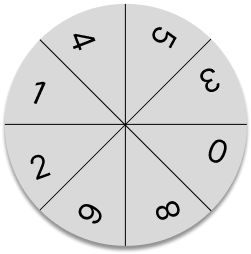
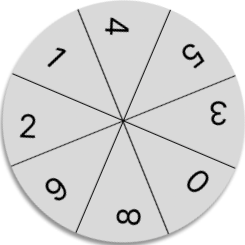
Fix L11 and Add divide in L16

diff --git a/src/components/levels/L16.jsx b/src/components/levels/L16.jsx
@@ -67,7 +67,7 @@ const Level16 = ({ onComplete }) => {
   const handleCommandSubmit = () => {
     const matchTheme = inputValue.match(/^\/theme (dark|light)$/);
 
-    const match = inputValue.match(/^\/(invert|help|multiply|add)\s*(.*)$/);
+    const match = inputValue.match(/^\/(invert|help|multiply|divide|add)\s*(.*)$/);
 
     if (match) {
       const [, operation, parameters] = match;
@@ -115,6 +115,45 @@ const Level16 = ({ onComplete }) => {
             setInputValue("");
           }
           break;
+          case "divide":
+            const divideMatch = parameters.match(/^(row|col)([1-3])\s+(\S+)$/);
+            if (divideMatch) {
+              const [, type, number, factor] = divideMatch;
+              const updatedMatrix = [
+                digit1,
+                digit2,
+                digit3,
+                digit4,
+                digit5,
+                digit6,
+                digit7,
+                digit8,
+                digit9,
+              ];
+              if (type === "row") {
+                const startIndex = (number - 1) * 3;
+                const endIndex = startIndex + 3;
+                for (let i = startIndex; i < endIndex; i++) {
+                  updatedMatrix[i] /= parseFloat(factor);
+                }
+              } else if (type === "col") {
+                const colNumber = parseInt(number);
+                for (let i = colNumber - 1; i < 9; i += 3) {
+                  updatedMatrix[i] /= parseFloat(factor);
+                }
+              }
+              setDigit1(updatedMatrix[0]);
+              setDigit2(updatedMatrix[1]);
+              setDigit3(updatedMatrix[2]);
+              setDigit4(updatedMatrix[3]);
+              setDigit5(updatedMatrix[4]);
+              setDigit6(updatedMatrix[5]);
+              setDigit7(updatedMatrix[6]);
+              setDigit8(updatedMatrix[7]);
+              setDigit9(updatedMatrix[8]);
+              setInputValue("");
+            }
+            break;
         case "add":
           const addMatch = parameters.match(
             // /^(row|col)\s+(\d+)\*(\d+)\s+(\d+)\*(\d+)$/
@@ -291,6 +330,9 @@ const Level16 = ({ onComplete }) => {
       <ul className="divide-y divide-gray-300">
       <li className="py-2">
           <span className="font-bold text-purple-600">/multiply</span> <span className="text-blue-500">[row|col][1-3] [number]</span> - <em>Multiply a specified row or column by a number.</em>
+        </li>
+        <li className="py-2">
+          <span className="font-bold text-purple-600">/divide</span> <span className="text-blue-500">[row|col][1-3] [number]</span> - <em>Divide a specified row or column by a number.</em>
         </li>
         <li className="py-2">
           <span className="font-bold text-purple-600">/add</span> <span className="text-blue-500">[row|col] [multiplication factor]*[row/col number] to [multiplication factor]*[row/col number]</span> - <em>Adds the specified multiplication factor of one row or column to another row or column.</em><span className="font-bold text-purple-600"><br/>Example:</span> <code>/add row 2*1 to 3*2</code> (adds 2 times of row 1 to 3 times of row 2).

diff --git a/src/app/game/page.jsx b/src/app/game/page.jsx
@@ -45,6 +45,7 @@ const Game = () => {
   const setStartTime = async (email) => {
     if (!loading && userDet?.CL <= staticData.maxLevel && userDet?.CS == 0) {
       {
+        console.log("setStartTime called");
         const uId = convertDotsToUnderscores(email);
         const curtime = await getIndianEpochTimeFromWorldTimeAPI();
         const userRef = ref(database, `/${uId}`);
@@ -72,14 +73,14 @@ const Game = () => {
         console.log(userVal);
         setUserDet(userVal);
       });
-
+      console.log("help")
       setStartTime(session.user.email);
 
       return () => {
         off(userRef);
       };
     }
-  }, [session]);
+  }, [session.user]);
 
   useEffect(() => {
     if (status === "authenticated") {

diff --git a/src/components/levels/L11.jsx b/src/components/levels/L11.jsx
@@ -198,9 +198,9 @@ const Level11 = ({ onComplete }) => {
             height={100}
             style={{ transform: `rotate(${rotationAngle}deg)` }}
           />
-          <span>*1.5 = </span>
+          <span>/2 = </span>
           <span>{atext}</span>
-          <span> = /2</span>
+          <span> = 1.5*</span>
           <Image
             ref={rightRef}
             className={`rounded-full bg-none ${

diff --git a/src/components/levels/L13.jsx b/src/components/levels/L13.jsx
@@ -34,9 +34,8 @@ const Level13 = ({ onComplete }) => {
     );
     const xRem = x / baseFontSize;
     const yRem = y / baseFontSize;
-    console.log(yRem);
     const eyRem = yRem;
-    console.log(eyRem);
+    
 
     return (eyRem >= -1.5 && eyRem <= 1.5) || eyRem <= -13.5 || eyRem >= 13.5;
   };

diff --git a/src/lib/staticdata.js b/src/lib/staticdata.js
@@ -1,4 +1,4 @@
-const maxLevel = 5;
+const maxLevel = 16;
 const startTimes = {
   1: 1708925400,
   2: 1708925400,
